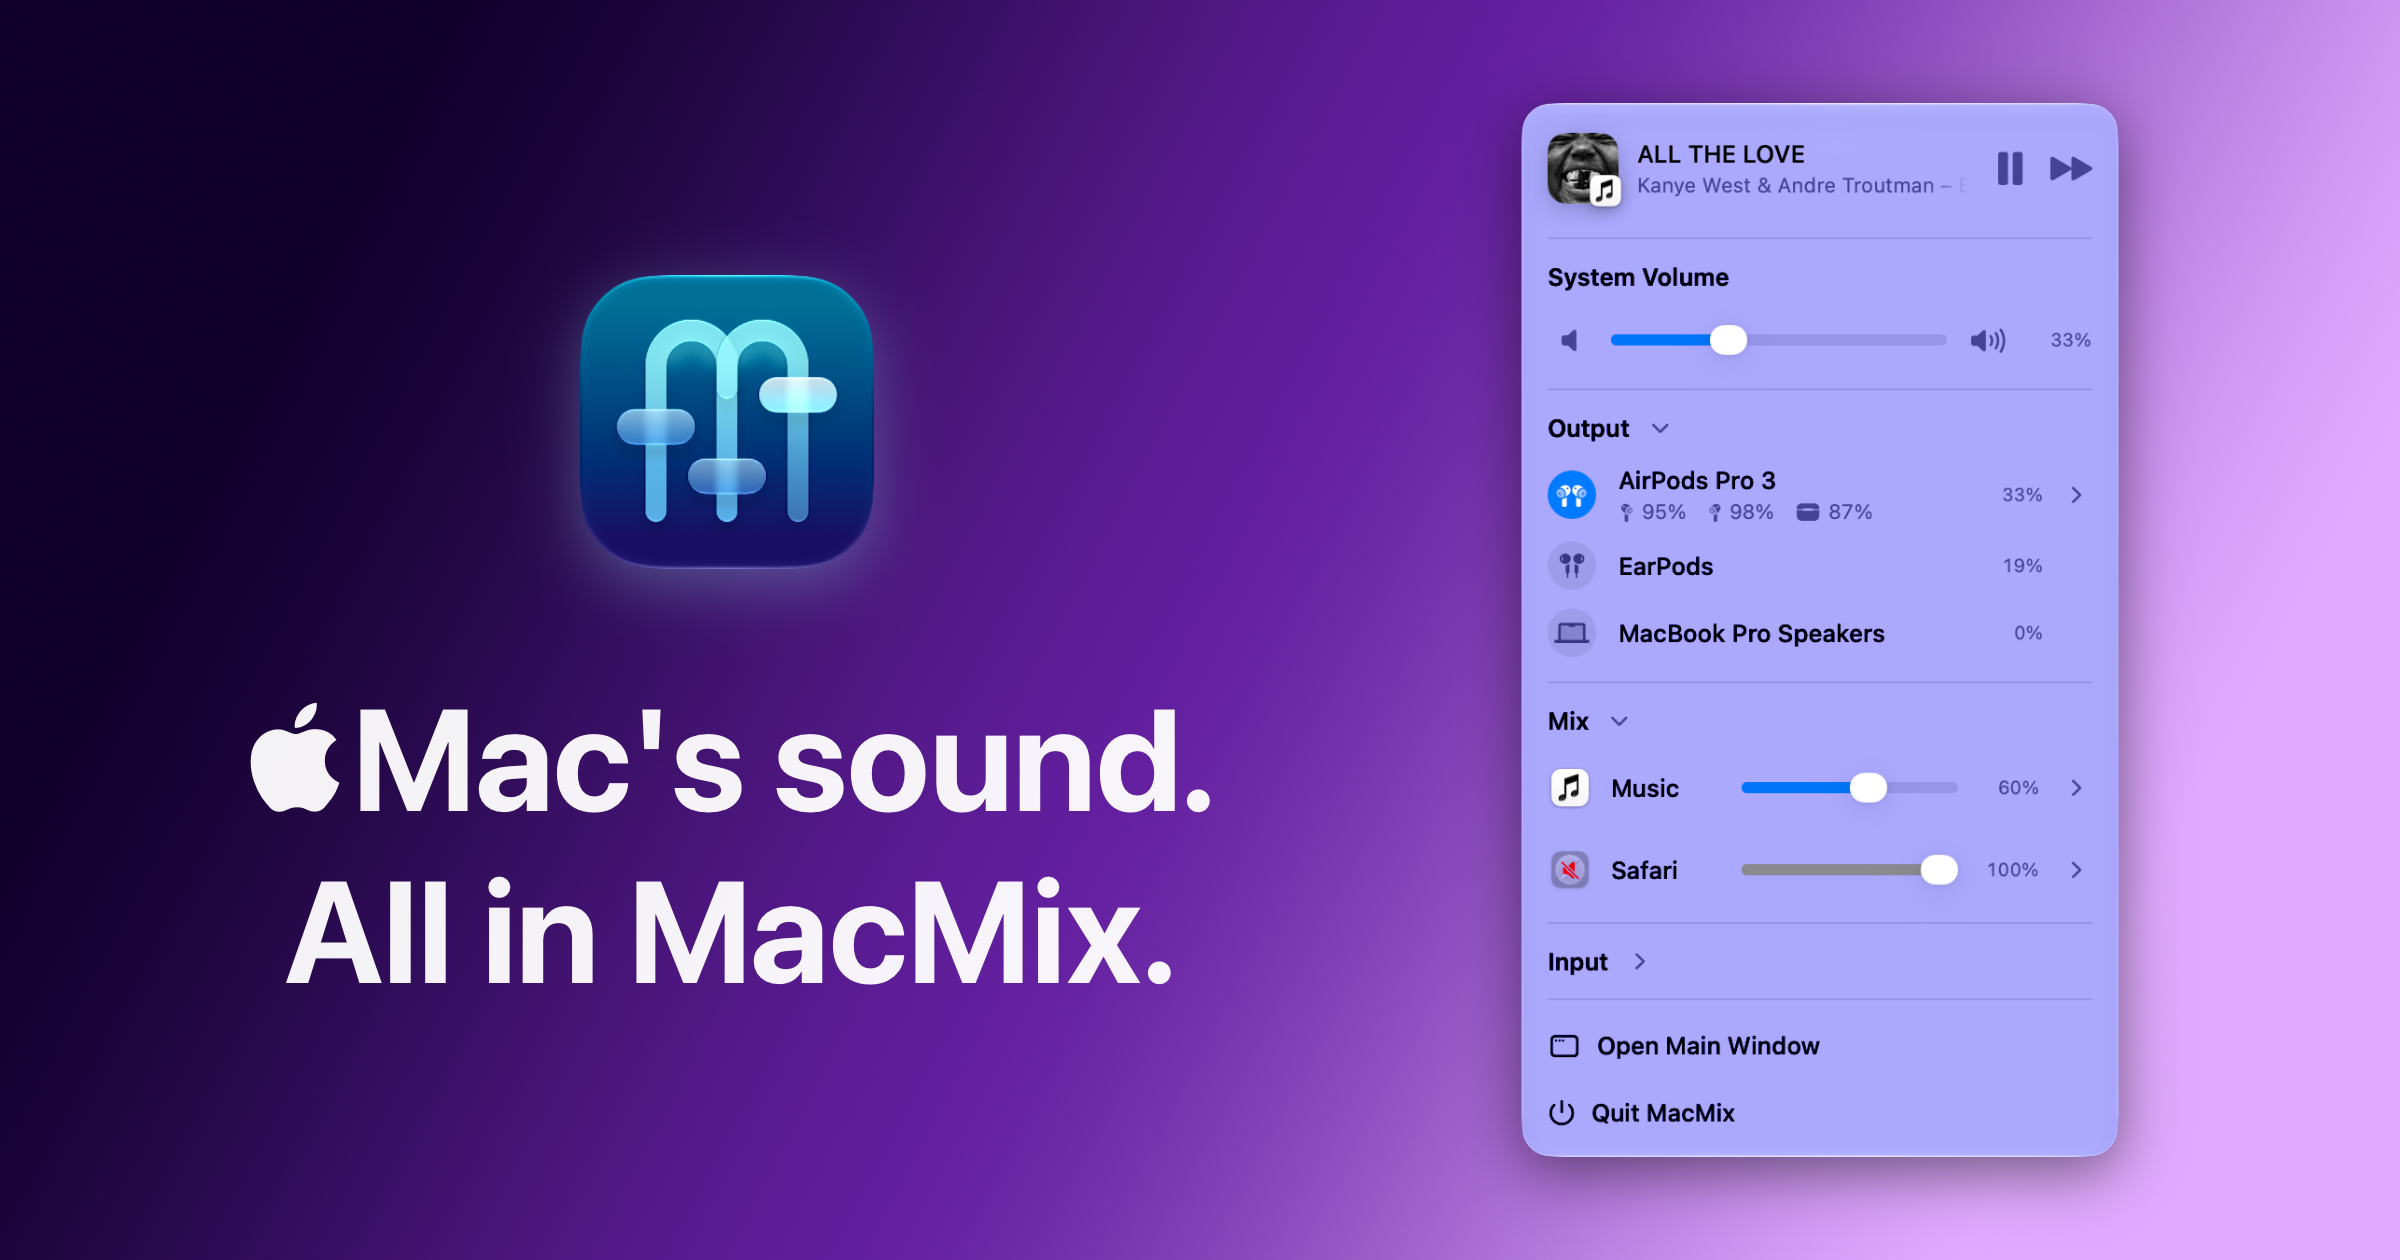
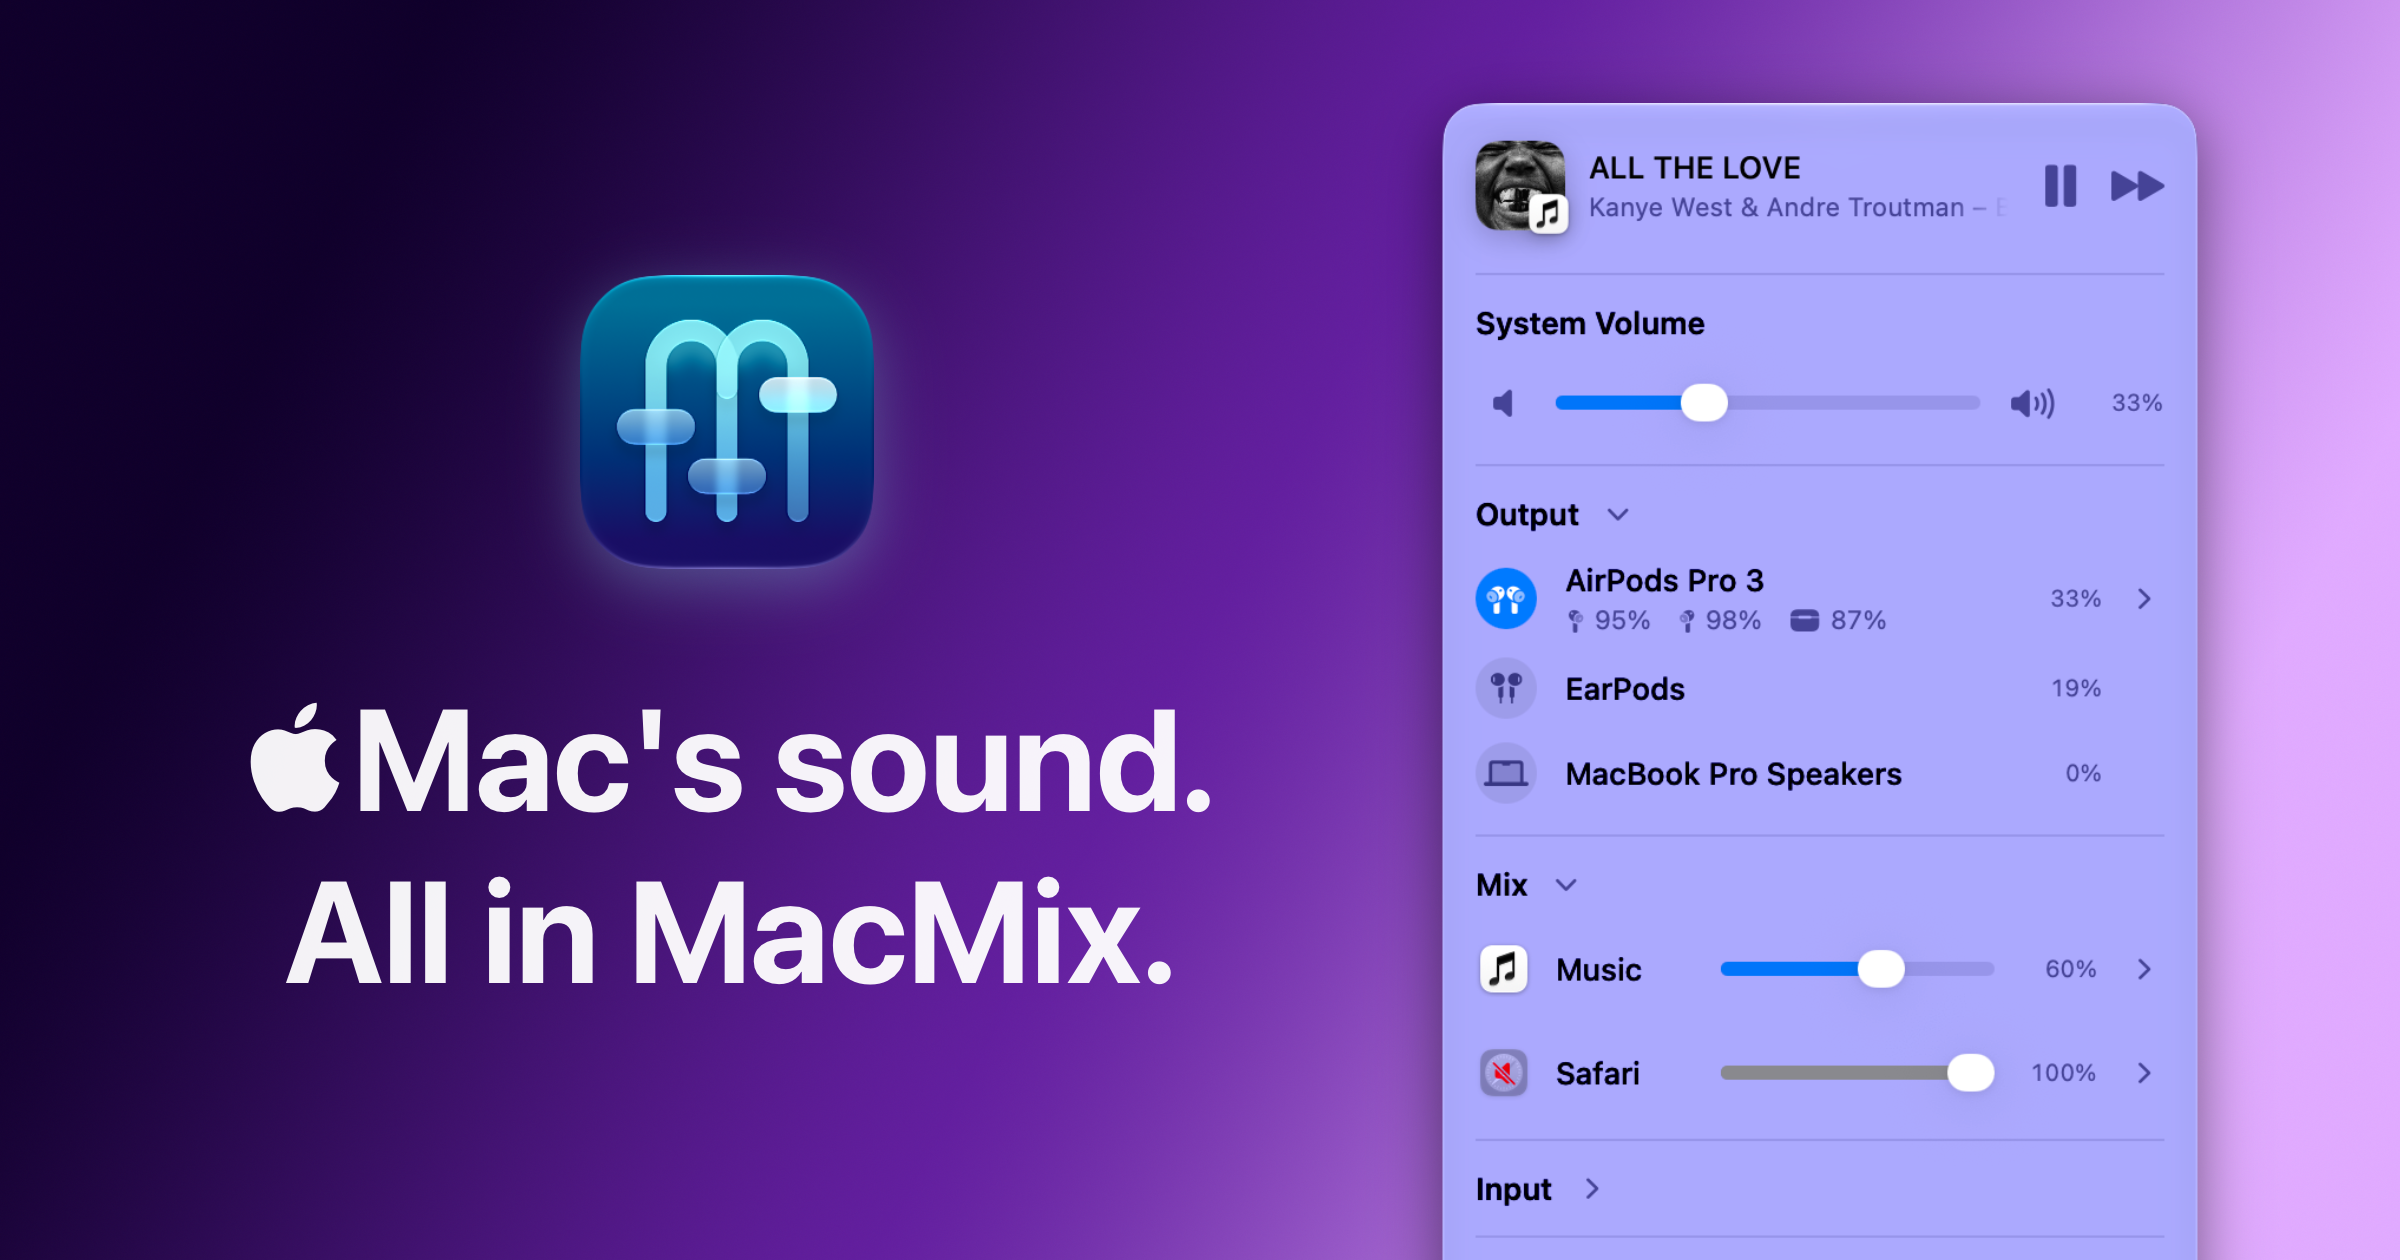
Refresh MacMix social preview image
Update og-image.png and add a cache version to the og:image and
twitter:image URLs so social platforms fetch the new image.

diff --git a/macmix/index.html b/macmix/index.html
@@ -67,7 +67,7 @@
     <meta property="og:title" content="MacMix — Mac&#x27;s sound. All in MacMix." />
     <meta property="og:description" content="Mac&#x27;s sound. All in MacMix." />
     <meta property="og:locale" content="en_US" />
-    <meta property="og:image" content="https://macmix.jazminli.com/og-image.png" />
+    <meta property="og:image" content="https://macmix.jazminli.com/og-image.png?v=og-20261025" />
     <meta property="og:image:type" content="image/png" />
     <meta property="og:image:width" content="2400" />
     <meta property="og:image:height" content="1260" />
@@ -75,7 +75,7 @@
     <meta name="twitter:card" content="summary_large_image" />
     <meta name="twitter:title" content="MacMix — Mac&#x27;s sound. All in MacMix." />
     <meta name="twitter:description" content="Mac&#x27;s sound. All in MacMix." />
-    <meta name="twitter:image" content="https://macmix.jazminli.com/og-image.png" />
+    <meta name="twitter:image" content="https://macmix.jazminli.com/og-image.png?v=og-20261025" />
     <meta name="twitter:image:alt" content="MacMix app icon and audio controls for system volume, output devices, and individual apps on a purple background." />
     <link rel="icon" type="image/png" sizes="16x16" href="%BASE_URL%favicon-16x16.png?v=icon-20261016" />
     <link rel="icon" type="image/png" sizes="32x32" href="%BASE_URL%favicon-32x32.png?v=icon-20261016" />
